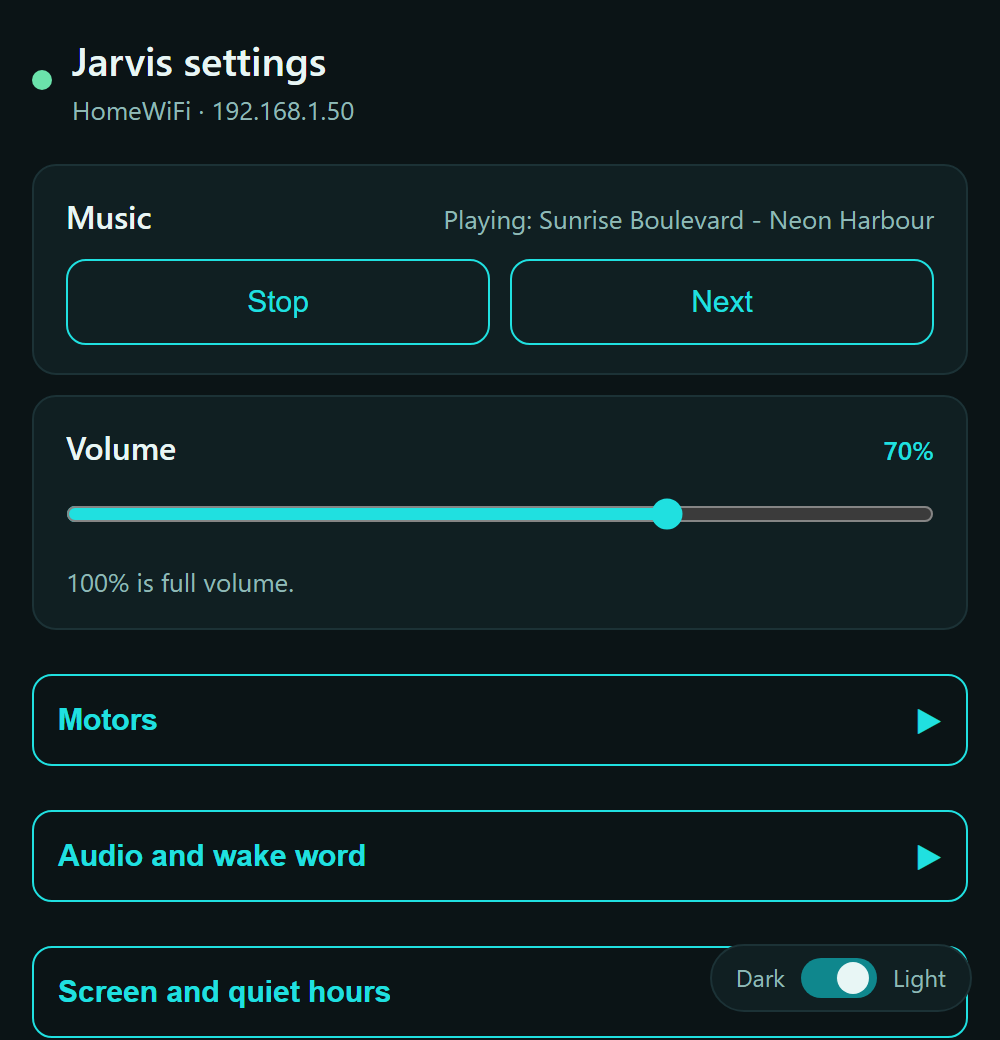
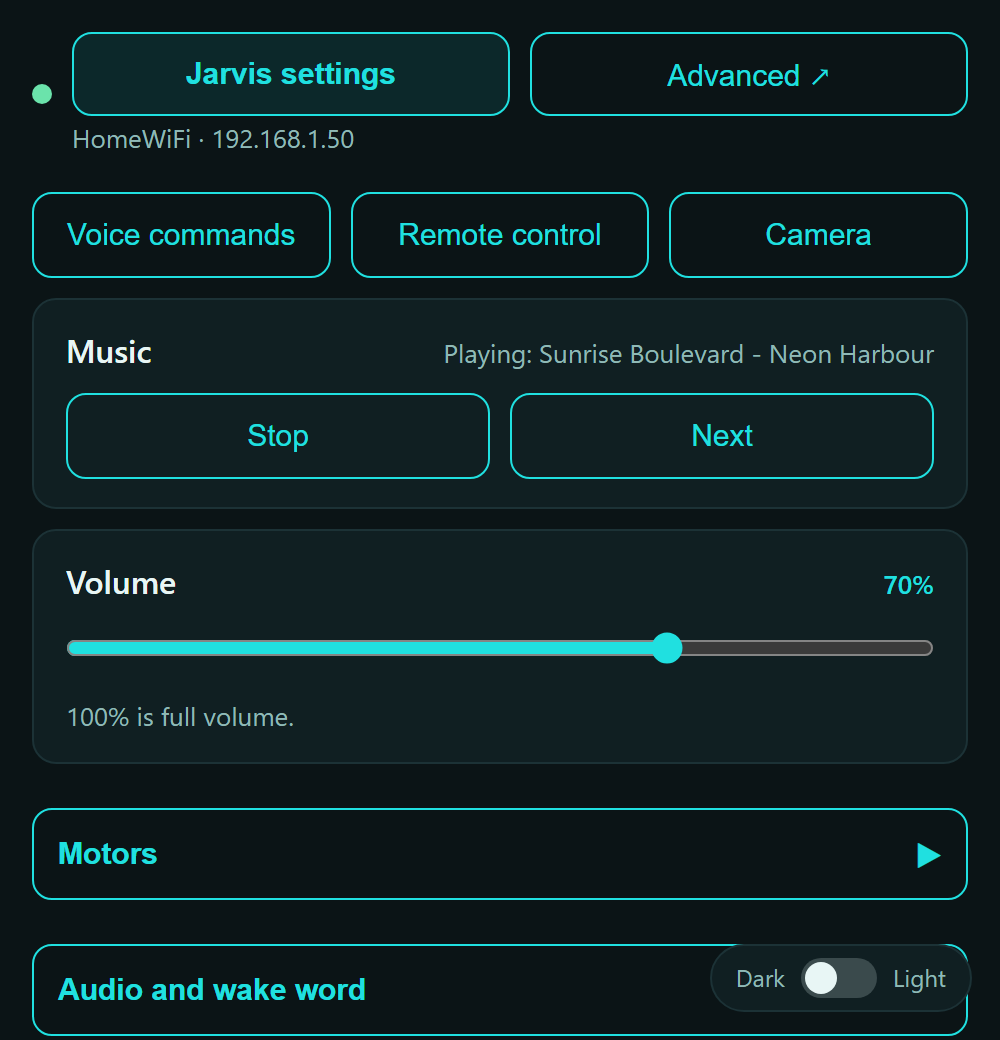
Landing page: Jarvis settings and Advanced as two matching buttons, Voice server card removed, Status says Music mode while music plays

diff --git a/index.html b/index.html
@@ -201,10 +201,12 @@
   #volume .pstate { color: var(--muted); font-size: 13px; }
   #volume .pstate span { color: var(--accent); font-weight: 600; }
   #volume input[type=range] { margin-top: 4px; }
-  #serverPanel { display: none; margin-top: 12px; }
-  #serverPanel.open { display: block; }
-  #serverPanel input[type=text] { margin-top: 0; }
-  #serverPanel button { margin-top: 10px; }
+  /* the two page buttons at the top: the same size and look, the one you are on is filled */
+  header .hmain { flex: 1; min-width: 0; }
+  .tabs { display: flex; gap: 10px; }
+  .tabs .tab { flex: 1; width: auto; margin-top: 0; padding: 10px 8px; font-size: 15px; border-color: var(--accent); color: var(--accent); }
+  .tabs .tab.on { background: var(--accent-wash); }
+  .tabs .tab:active { background: var(--accent-held); }
   #serverUrl { margin: 0 0 10px; overflow-wrap: anywhere; }
   #sleepPanel { display: none; margin-top: 12px; }
   #sleepPanel.open { display: block; }
@@ -252,8 +254,11 @@
 <div class="wrap">
   <header>
     <div class="dot" id="dot"></div>
-    <div>
-      <h1>Jarvis settings</h1>
+    <div class="hmain">
+      <div class="tabs" role="group" aria-label="Pages">
+        <button type="button" class="tab on" id="setBtn" aria-current="page">Jarvis settings</button>
+        <button type="button" class="tab" id="advBtn" style="display:none" data-hint="The backend control panel on your PC: servers, brains, voices, keys">Advanced &#8599;</button>
+      </div>
       <p id="sub">Loading...</p>
     </div>
   </header>
@@ -320,22 +325,6 @@
     <div class="prow"><b>Volume</b><span class="pstate"><span id="volVal">--</span></span></div>
     <input type="range" id="volSlider" min="0" max="100" step="1" value="50" aria-label="Speaker volume">
     <p class="help" id="volHelp"></p>
-  </div>
-  <div id="server" class="card">
-    <div class="prow"><b>Voice server</b><span class="pstate"><span id="serverState">--</span></span></div>
-    <p class="help" id="serverUrl"></p>
-    <div class="pbtns">
-      <button id="serverOwnBtn" class="secondary" data-hint="Use a voice server on your own network instead of the cloud">Own server&hellip;</button>
-      <button id="serverCloudBtn" class="secondary" data-hint="Go back to the xiaozhi.me cloud server">Use cloud</button>
-    </div>
-    <button id="panelBtn" class="secondary" style="display:none;margin-top:10px" data-hint="Opens the backend control panel on your PC">Open Jarvis backend &#8599;</button>
-    <p class="help" id="panelPin" style="display:none">Backend PIN for other devices: <b id="panelPinVal" style="letter-spacing:2px"></b></p>
-    <div id="serverPanel">
-      <input type="text" id="serverIp" placeholder="192.168.x.y or name.local" autocomplete="off" autocapitalize="none" spellcheck="false" inputmode="url" aria-label="Own server address">
-      <p class="help">Port 8003 is assumed; add <code>:port</code> to change it. Only addresses on your own network are accepted here.</p>
-      <button id="serverGo">Save and restart Jarvis</button>
-    </div>
-    <p class="status" id="serverMsg"></p>
   </div>
   <div id="remote" class="card">
     <div class="pad">
@@ -483,11 +472,11 @@ var VOICE_COMMANDS = [
   ], "ha"]
 ];
 
-var musicOn = false, musicNext = 0;
+var musicOn = false, musicNext = 0, musicPlaying = false;
 // What plays? The backend's music player says so (a script include, like ha.js): the Music card with Stop shows while it is on. Asked every 5 seconds.
 function loadMusicStatus() {
   var card = document.getElementById("music");
-  if (!panelUrl) { if (musicOn) { musicOn = false; buildCommands(); } card.style.display = "none"; return; }
+  if (!panelUrl) { musicPlaying = false; if (musicOn) { musicOn = false; buildCommands(); } card.style.display = "none"; return; }
   if (Date.now() < musicNext) return;
   musicNext = Date.now() + 5000;
   window.JARVIS_MUSIC = null;
@@ -496,12 +485,13 @@ function loadMusicStatus() {
   s.onload = function () {
     var m = window.JARVIS_MUSIC || {};
     var on = !!m.on;
+    musicPlaying = on && !!(m.now && m.now.title);   // a song, a radio station or a podcast is playing: the status says "Music mode"
     if (on !== musicOn) { musicOn = on; buildCommands(); }
     card.style.display = on ? "block" : "none";
     document.getElementById("musicNow").textContent = m.now && m.now.title ? "Playing: " + m.now.title + (m.now.artist ? " - " + m.now.artist : "") : "Nothing playing";
     s.remove();
   };
-  s.onerror = function () { musicNext = Date.now() + 30000; if (musicOn) { musicOn = false; buildCommands(); } card.style.display = "none"; s.remove(); };
+  s.onerror = function () { musicPlaying = false; musicNext = Date.now() + 30000; if (musicOn) { musicOn = false; buildCommands(); } card.style.display = "none"; s.remove(); };
   document.head.appendChild(s);
 }
 var haOk = false, haNext = 0;
@@ -523,7 +513,7 @@ function buildCommands() {
   container.innerHTML = "";
   var legend = document.createElement("div");
   legend.className = "legend";
-  legend.innerHTML = '<span><i></i>Original commands: understood by the brain, work with any server.</span><span><i class="instant"></i>Instant commands: only with your own server (Voice server card). Done at once, no brain, no waiting; they keep working when the brain is down.</span>' +
+  legend.innerHTML = '<span><i></i>Original commands: understood by the brain, work with any server.</span><span><i class="instant"></i>Instant commands: only with your own server (set in Advanced). Done at once, no brain, no waiting; they keep working when the brain is down.</span>' +
     (musicOn ? '<span><i class="music"></i>Music commands: only while the backend\'s music player is on (Music card in the backend).</span>' : "") +
     (haOk ? '<span><i class="ha"></i>Home commands: only while your Home Assistant answers (Home Assistant card in the backend).</span>' : "");
   container.appendChild(legend);
@@ -793,6 +783,7 @@ function loadStatus() {
 
     var $ = function (id, text) { document.getElementById(id).textContent = text; };
     var stateName = s.napping ? "napping" : (STATE_NAMES[s.state] || "state " + s.state);
+    if (!s.napping && STATE_NAMES[s.state] === "speaking" && musicPlaying) stateName = "music mode";
     $("iBoard", s.board_name || (s.board || "").split("/")[0]);
     $("iCamera", s.camera_detected ? "YES" + (s.camera_sensor ? " (" + s.camera_sensor + ")" : "") : "NO");
     $("iMac", s.mac || "");
@@ -905,80 +896,17 @@ function renderVolume(s) {
   });
 })();
 
-// Voice server card: the xiaozhi.me cloud (default) or an own server on the LAN. Saving restarts Jarvis.
+// The control panel of the own server (port 8090). Its address comes with the status; with the xiaozhi.me cloud there is none and "Advanced" stays hidden.
+// The panel recognises that the visit comes from this page and lets it in without its PIN.
+var panelUrl = "";
 function renderServer(s) {
-  if (s.server === undefined) { document.getElementById("server").style.display = "none"; return; }
-  var own = !!s.server_custom;
-  var m = /^[a-z]+:\/\/([^\/]+)/i.exec(s.server || "");
-  document.getElementById("serverState").textContent = own ? "Own server" : "Cloud (xiaozhi.me)";
-  document.getElementById("serverUrl").textContent = own ? "Talking to " + (m ? m[1] : s.server) : "Using the built-in default server.";
-  document.getElementById("serverCloudBtn").disabled = !own;
-  // The control panel of the own server (port 8090) opens in a new window; the panel recognises that the
-  // visit came from this page and lets it in without asking for its PIN.
-  panelUrl = own && s.panel_url ? s.panel_url : "";
-  document.getElementById("panelBtn").style.display = panelUrl ? "block" : "none";
-  loadPanelPin();
+  panelUrl = s.server_custom && s.panel_url ? s.panel_url : "";
+  document.getElementById("advBtn").style.display = panelUrl ? "block" : "none";
   loadHaStatus();
   loadMusicStatus();
-  var ip = document.getElementById("serverIp");
-  if (own && m && document.activeElement !== ip && !ip.value) ip.value = m[1].replace(/:8003$/, "");
 }
-var panelUrl = "";
-var panelPinFor = "", panelPinRetry = 0;
-// The PIN lives on the PC, not on the robot: the backend hands it to this page (a script include) only
-// while its "Jarvis page button skips the PIN" option is on, so switching that off hides it here too.
-function loadPanelPin() {
-  var box = document.getElementById("panelPin");
-  if (!panelUrl) { box.style.display = "none"; panelPinFor = ""; return; }
-  if (panelPinFor === panelUrl || Date.now() < panelPinRetry) return;
-  panelPinFor = panelUrl;
-  window.JARVIS_PANEL_PIN = "";
-  var s = document.createElement("script");
-  s.src = panelUrl + "pin.js?" + Date.now();
-  s.onload = function () {
-    var pin = window.JARVIS_PANEL_PIN || "";
-    document.getElementById("panelPinVal").textContent = pin;
-    box.style.display = pin ? "block" : "none";
-  };
-  s.onerror = function () { box.style.display = "none"; panelPinFor = ""; panelPinRetry = Date.now() + 30000; };
-  document.head.appendChild(s);
-}
-document.getElementById("panelBtn").addEventListener("click", function () {
+document.getElementById("advBtn").addEventListener("click", function () {
   if (panelUrl) window.open(panelUrl + "auto", "_blank");
-});
-function serverMsg(text, ok) {
-  var el = document.getElementById("serverMsg");
-  el.textContent = text;
-  el.className = "status " + (ok ? "ok" : "err");
-}
-function serverPost(value) {
-  return fetch("/api/server", {
-    method: "POST", cache: "no-store", headers: { "Content-Type": "application/json" },
-    body: JSON.stringify({ server: value })
-  }).then(function (r) { return r.json().catch(function () { return { ok: false, message: "Jarvis refused the request." }; }); })
-    .catch(function () { return { ok: false, message: "Could not reach Jarvis." }; });
-}
-function serverSwitch(value, question) {
-  jconfirm(question, "Save", false).then(function (ok) {
-    if (!ok) return;
-    serverMsg("Saving...", true);
-    serverPost(value).then(function (r) {
-      serverMsg(r.message || (r.ok ? "Saved." : "Not saved."), !!r.ok);
-      if (r.ok) document.getElementById("serverPanel").classList.remove("open");
-    });
-  });
-}
-document.getElementById("serverOwnBtn").addEventListener("click", function () {
-  document.getElementById("serverPanel").classList.toggle("open");
-});
-document.getElementById("serverCloudBtn").addEventListener("click", function () {
-  serverSwitch("default", "Switch Jarvis back to the xiaozhi.me cloud? Jarvis restarts.");
-});
-document.getElementById("serverGo").addEventListener("click", function () {
-  var v = document.getElementById("serverIp").value.trim();
-  if (!v) { serverMsg("Enter the address of your server first.", false); return; }
-  serverSwitch(v, "Switch Jarvis to your own server at " + v + "? Jarvis restarts. " +
-    "If that server is not running, Jarvis has no voice until you switch back (here with 'Use cloud', or with the USB command !server default).");
 });
 
 var themeSwitch = document.getElementById("themeSwitch");

diff --git a/docs/API.md b/docs/API.md
@@ -49,7 +49,7 @@ deep sleep. Replies are `application/json` unless noted. `<ip>` is the robot's a
 | `rssi` | WiFi signal in dBm |
 | `server`, `server_custom` | The voice server's OTA URL in use, and whether it is an own server (`true`) or the built-in default cloud (`false`) |
 | `volume`, `volume_requested`, `volume_cap` | What the speaker plays at, what was asked for, and the limit in force (100, or 40 during quiet hours). `volume` = the lower of the other two |
-| `panel_url` | Address of the Jarvis backend control panel (`http://<server host>:8090/`) when an own server is set, otherwise `""`. The settings page shows an "Open Jarvis backend" button for it |
+| `panel_url` | Address of the Jarvis backend control panel (`http://<server host>:8090/`) when an own server is set, otherwise `""`. The settings page shows an "Advanced" button for it (next to "Jarvis settings" at the top) |
 
 Older firmware may leave out newer fields (`cpu_load`, `fps`, `heap_largest_kb`, `audio_*`, `camera_*`,
 `board_name`, `power`); clients should treat every field as optional.

diff --git a/README.md b/README.md
@@ -13,7 +13,7 @@ libraries, no internet needed), and it talks to the robot through a small JSON A
 | <img src="docs/screenshots/landing-top-dark.png" width="260"> | <img src="docs/screenshots/landing-remote-dark.png" width="260"> | <img src="docs/screenshots/landing-settings-dark.png" width="260"> |
 | <img src="docs/screenshots/landing-power-light.png" width="260"> | <img src="docs/screenshots/landing-voice-light.png" width="260"> | <img src="docs/screenshots/landing-settings-light.png" width="260"> |
 
-With an own backend (Voice server card) the page also shows the backend's **Music** card (title, Stop, Next) while its music player is on, and the music, radio and
+With an own backend (the Advanced button) the page also shows the backend's **Music** card (title, Stop, Next) while its music player is on, and the music, radio and
 Home Assistant command lists (each in its own colour):
 
 | Music card |
